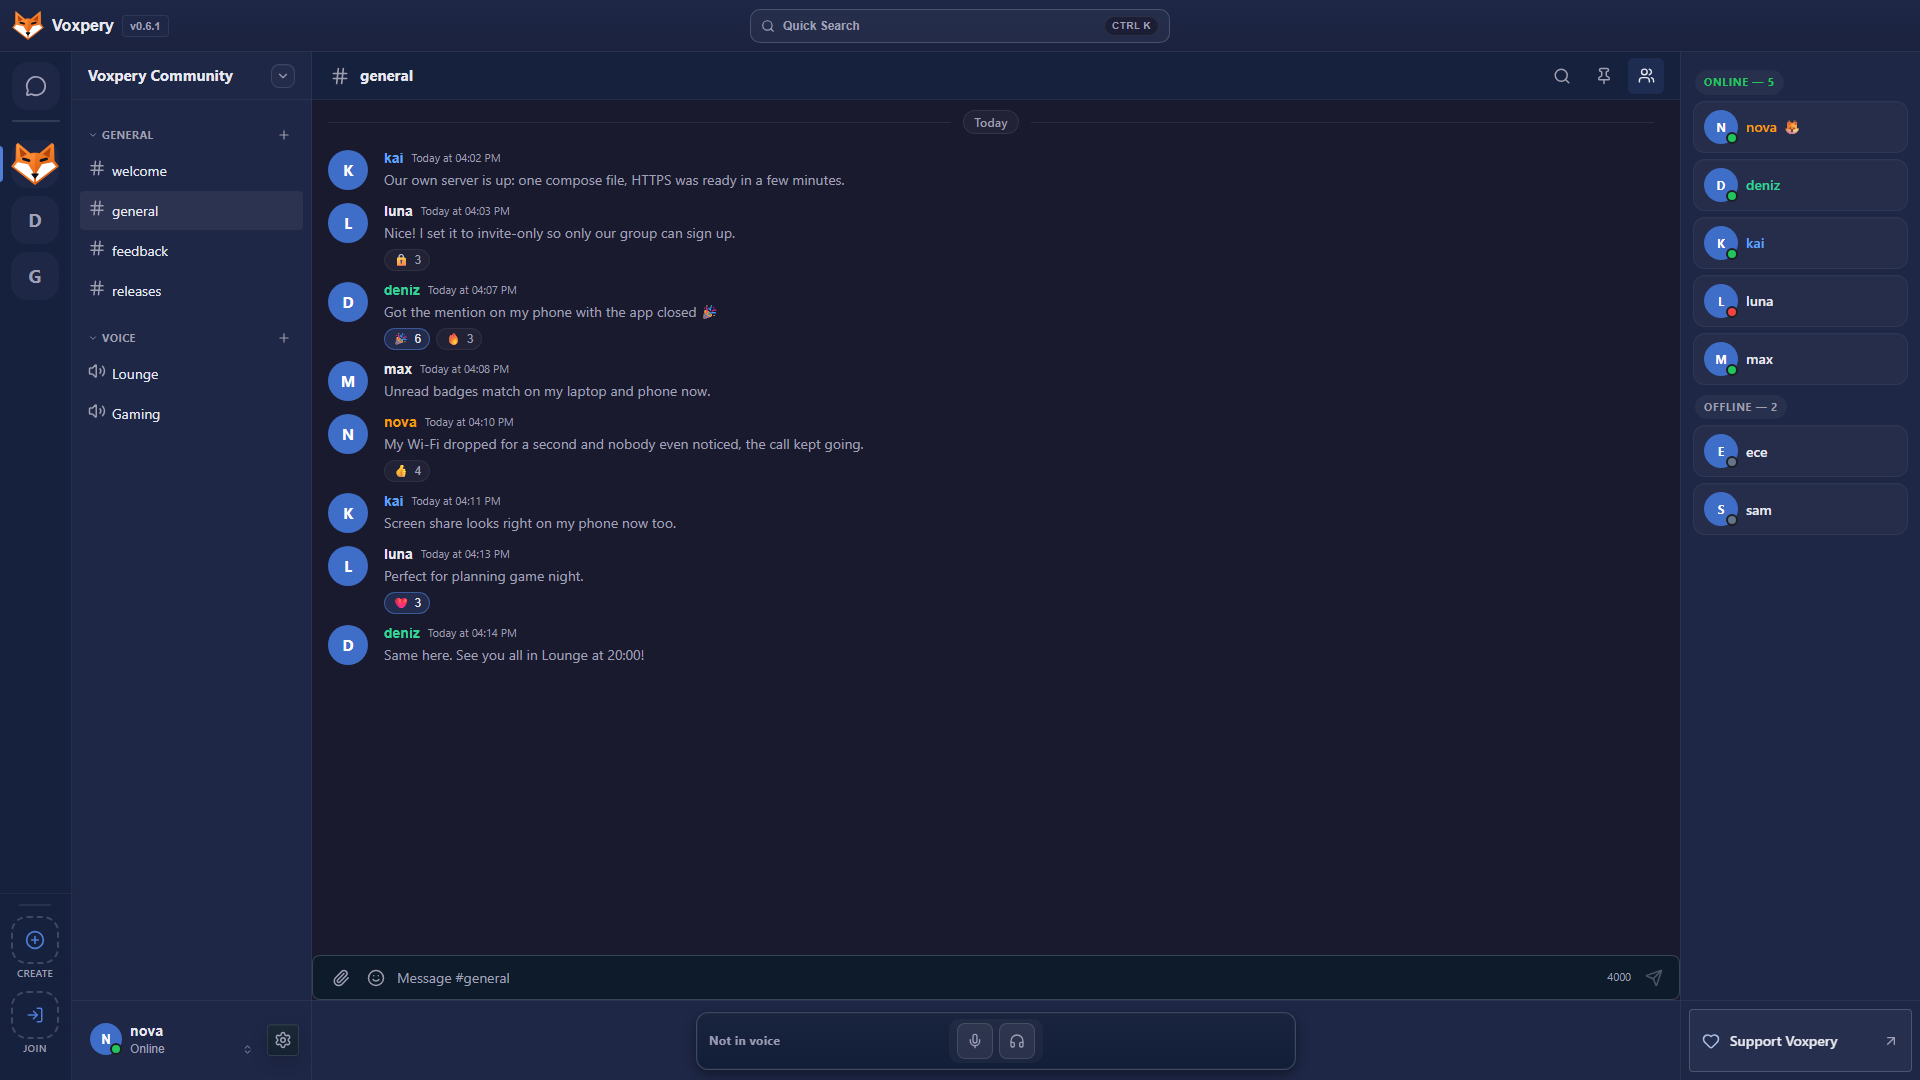
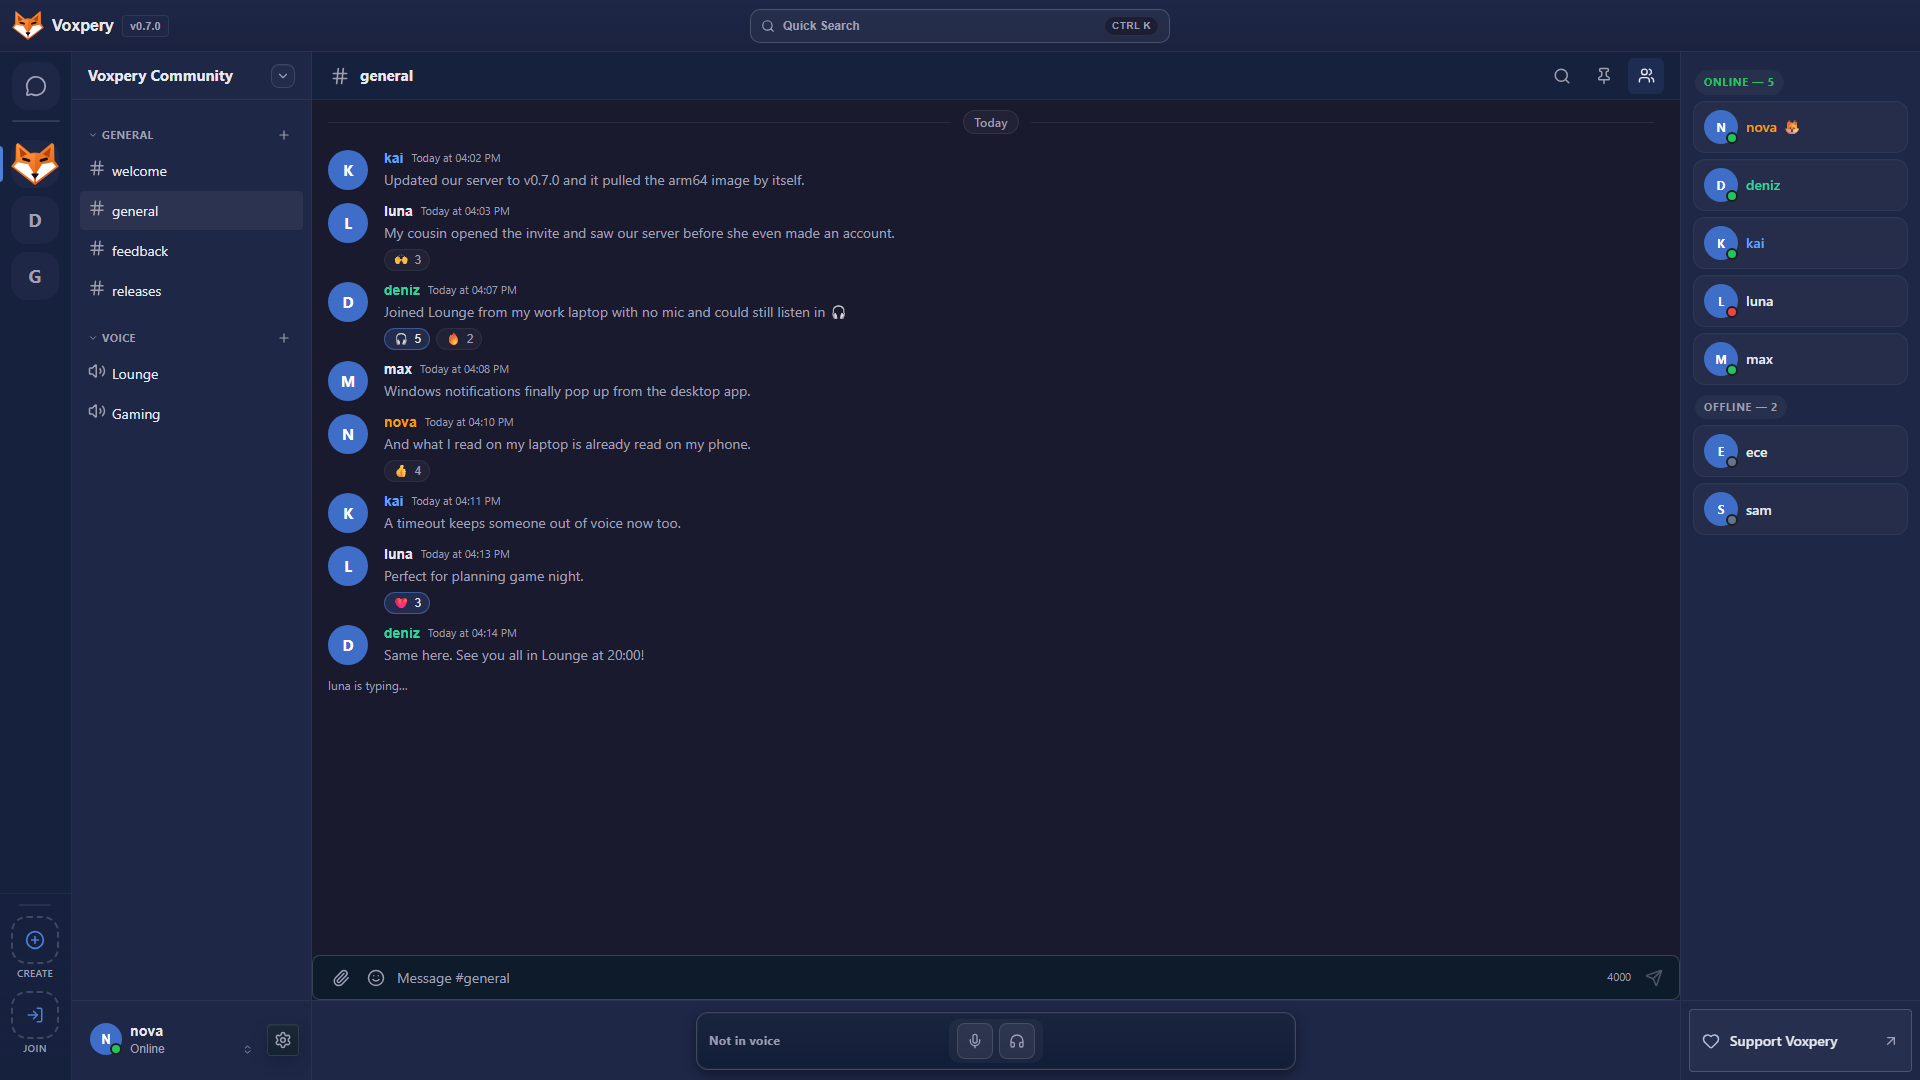
chore(release): prepare 0.7.0

diff --git a/docs/RELEASE_SMOKE_TEST_CHECKLIST.md b/docs/RELEASE_SMOKE_TEST_CHECKLIST.md
@@ -26,13 +26,35 @@ For releases that touch voice, WebRTC, LiveKit, service workers, build output, o
 
 ## Release Candidate Info
 
-### v0.6.1 preparation (not release sign-off)
+### v0.7.0 preparation (not release sign-off)
 
-Version metadata is prepared for `0.6.1`; this does not certify release readiness. Complete remaining planned improvements before recording the final candidate commit. Rebuild that exact commit in WSL with Docker and isolated test data, then test the real backend and UI at 1920x1080 plus narrow desktop/mobile regressions. Mocked browser tests are supplementary, not a substitute for this check.
+Version metadata is prepared for `0.7.0`; this does not certify release readiness. Complete remaining planned improvements before recording the final candidate commit. Rebuild that exact commit with Docker and isolated test data, then test the real backend and UI at 1920x1080 plus narrow desktop/mobile regressions. Mocked browser tests are supplementary, not a substitute for this check.
 
 Record real desktop smoke results, two-user voice/screen-share and moderation/reconnect checks, real-device mobile background-audio results, required CI/security/build results, and any platform limitations before publishing. Confirm that the glib 0.18 advisory (#242) still stays out of every shipped build (see `docs/DESKTOP_RELEASE_HARDENING.md`, Upstream issues tracked).
 
-For the final tag build, verify Docker images `voxpery/voxpery-server:v0.6.1` and `voxpery/voxpery-web:v0.6.1`, the embedded web badge/build tag, desktop version `0.6.1`, the `Voxpery_0.6.1_x86_64.flatpak` asset, the `aur-voxpery-bin` artifact (version and .deb SHA-256) (name and bundled metainfo version), and the release-generated updater `latest.json` version all agree. Scan both images (Docker Hub or `docker scout`) and record any remaining critical or high findings with a reason. Do not publish a placeholder updater manifest or tag unvalidated images as a release. Leave sign-off fields unchecked until the final candidate is tested.
+For the final tag build, verify Docker images `voxpery/voxpery-server:v0.7.0` and `voxpery/voxpery-web:v0.7.0`, the embedded web badge/build tag, desktop version `0.7.0`, the `Voxpery_0.7.0_x86_64.flatpak` asset, the `aur-voxpery-bin` artifact (version and .deb SHA-256) (name and bundled metainfo version), and the release-generated updater `latest.json` version all agree. Scan both images (Docker Hub or `docker scout`) and record any remaining critical or high findings with a reason. Do not publish a placeholder updater manifest or tag unvalidated images as a release. Leave sign-off fields unchecked until the final candidate is tested.
+
+### v0.7.0 checks
+
+Server migration `068` runs on the first start (it adds `users.disabled_at`). Take a fresh database backup first. Copy every new setting from `.env.example` into the production `.env` before the deploy.
+
+- [ ] voxpery.com `/version.json` reports `v0.7.0` after the deploy, the header badge shows `v0.7.0`, and the server logs show migration `068` applied without errors.
+- [ ] `docker buildx imagetools inspect voxpery/voxpery-server:v0.7.0` and the same for `voxpery/voxpery-web:v0.7.0` list `linux/amd64` and `linux/arm64`; the `docker_arm64_smoke` job of the tag run passed.
+- [ ] Disabling a test account with the SQL in `docs/DEPLOYMENT.md` (section 9) drops its open web and desktop sessions within 30 seconds and refuses password and Google sign-in; enabling it again restores sign-in.
+- [ ] Voice without a microphone in Chrome and Firefox (permission denied, no device, device busy) and on Windows desktop (microphone access off in Windows settings): the user joins as a listener, hears the others, shows as muted, sees no "Could not connect" message, and can talk with "Turn on microphone" once access is back.
+- [ ] Two users: a timeout given to a member in voice removes them from the call; they cannot join voice until the timeout ends or is removed, then they can.
+- [ ] Windows desktop (installed build, clean profile or with the WebView2 notification permission removed): Settings > Communication > Desktop notifications turns on without a prompt; with Voxpery in the background a DM and a mention each show a Windows notification, a click opens that conversation, Do Not Disturb and a muted server suppress them. Repeat on macOS and Linux.
+- [ ] One account on desktop, a browser and a phone: reading a channel message, a DM and a mention on one clears it on the others within a few seconds, and a tab or phone back from the background shows it read.
+- [ ] Two accounts: the typing indicator shows and clears in a channel and in a DM; your own typing does not show for you.
+- [ ] Phone, signed out: an invite link shows the server preview; "Create account" and "Sign in" each return to the invite afterwards.
+- [ ] A moderator moves a member to another voice channel: the member's view follows to the new channel with a notice; a member reading a text channel stays there.
+- [ ] Real phone (320 and 375 px wide where possible): the "Stream available" tile with a "Watching" line and the hidden camera tile stay inside their row; the "Connection lost" banner after a return from the background covers no button.
+- [ ] Five messages sent quickly on a slow connection keep their order for the sender, for another user and after a reload, in a channel and a DM.
+- [ ] Desktop and phone: switching between channels and servers whose newest messages include photos keeps the newest message in place from the first frame, also after a reload; only a photo never opened in that browser may settle once.
+- [ ] `curl -I https://voxpery.com/manifest.webmanifest` shows `Content-Type: application/manifest+json`, and `curl -I https://voxpery.com` shows a single `Strict-Transport-Security` header.
+- [ ] Windows desktop Settings > Desktop shows the "Last start" timing, and the browser console shows one `[startup]` line; record both for the slow-start investigation.
+- [ ] After uploading a 150-200 KB PNG on voxpery.com, `docker compose logs server | grep "attachment upload timing"` shows the step timings; record them for the slow-upload investigation.
+- [ ] Settings > Desktop > Server on the real desktop app: the server address field and its buttons match the settings around them in light and dark themes.
 
 ### v0.6.1 checks
 
@@ -58,7 +80,6 @@ Server migrations `065`, `066` and `067` run on the first start. Take a fresh da
 - [ ] `REGISTRATION_MODE=invite` and `closed` with a real Google account: first sign-in follows the mode; existing accounts still sign in.
 - [ ] Server Settings resets the invite link: the old link shows an invalid invite, the new one joins.
 - [ ] Two devices of one account: reading a channel on one clears its badge on the other; a mention sent while the app is closed shows a badge on the next start; a muted channel is muted on both after a reconnect.
-- [ ] Windows desktop (clean installation): Settings > Communication > Desktop notifications turns on without a prompt; with Voxpery in the background a DM and a mention each show a Windows notification named Voxpery, a click opens that conversation, Do Not Disturb and a muted server suppress them. Repeat on macOS and Linux.
 - [ ] Android Chrome (real device) with notifications enabled and Voxpery in the background: a DM and a mention each show a notification, the chat still receives the message, and tapping opens that DM or channel (also listed under PWA above).
 - [ ] With VAPID keys set: Settings > Communication offers notifications while Voxpery is closed; with every tab closed, a DM arrives on Android Chrome, desktop Chrome and Firefox and opens the DM; signing out stops them. Record the iOS Home Screen result or the limit.
 - [ ] `/compare` shows the Stoat column on desktop and mobile.

diff --git a/docs/CHANGELOG.md b/docs/CHANGELOG.md
@@ -5,6 +5,39 @@ All notable changes to this project will be documented in this file.
 The format is based on [Keep a Changelog](https://keepachangelog.com/en/1.1.0/),
 and this project adheres to [Semantic Versioning](https://semver.org/spec/v2.0.0.html).
 
+## [0.7.0] - 2026-11-28
+
+Server migration `068` runs on the first start. Self-hosted servers can now run on arm64 as well as x86-64.
+
+### Security
+- Security updates.
+
+### Added
+- Typing indicator: channels and direct messages show who is typing ("kai is typing…", "kai and luna are typing…", "Several people are typing…"). Your own typing is not shown to you.
+- Voice without a microphone: when the microphone is blocked, missing or used by another app, you join the channel as a listener instead of not joining at all. You hear everyone, show as muted, and can turn the microphone on later with "Turn on microphone" or Unmute without leaving the channel.
+- Invite links opened without an account show the server's name, icon, description and member count, with "Create account" and "Sign in" buttons that bring you back to the invite. When the instance does not accept new accounts, only "Sign in" is shown.
+- Moderators can see and remove a server mute or deafen of a member who is not in voice, from the member menu and from Server Settings > Safety > Voice Restrictions. The member menu also offers "Remove timeout" for a member who is timed out.
+- Self-hosting: Docker images for arm64 servers next to x86-64; `docker compose pull` picks the right one. The optional ClamAV scanner is x86-64 only. Requirements and measured memory use are in `docs/DEPLOYMENT.md`.
+- Self-hosting: an operator can disable an account, for example one that sends spam or harassing messages. The account is signed out everywhere within 30 seconds and cannot sign in again until it is enabled; see "Disabling an Account" in `docs/DEPLOYMENT.md`.
+- Desktop: Settings > Desktop shows how long the last start took ("Last start"), and the server logs how long each step of a file upload takes, to find out where slow starts and uploads lose time.
+
+### Changed
+- A timeout now also covers voice: a timed-out member is removed from voice right away and cannot join a voice channel until the timeout ends or is removed. The timeout dialog says so.
+- The home page describes Voxpery as your group's own voice and chat server. On phones it now shows "Self-host with Docker" and a "Self-host" menu entry; the desktop downloads stay hidden there.
+
+### Fixed
+- Phones: a voice call in the browser goes on while Voxpery is in the background. The server no longer ends the call when the app's connection drops but the call itself is still running, and the microphone keeps sending while the page is hidden. Settings > Voice & Audio shows a background log of the last call to help find out why a call still drops.
+- Desktop notifications on Windows: turning them on in Settings > Communication no longer ends in "Blocked", and direct messages and mentions show as Windows notifications; a click opens the conversation. The desktop app on macOS and Linux uses the system notifications too.
+- Read messages stay read on your other devices: a channel opened from a notification or from the tray is marked read as soon as the window gets focus, and a tab or phone that was in the background for a while picks up what you read elsewhere when you come back.
+- Messages sent quickly one after another keep the order they were written in, for everyone and after a reload, in channels and direct messages.
+- Switching channels or servers no longer makes the newest messages jump while photos load: a photo you have seen before keeps its place from the first frame, also after a reload.
+- Phones: the "Stream available" and hidden camera tiles keep their avatar and "Watch stream" button inside while someone is watching, and the "Connection lost" banner no longer covers buttons; it now sits under the top bar and pushes the page down.
+- A member moved to another voice channel by a moderator now sees the new channel instead of the old one's empty view, with a short notice; someone reading a text channel stays where they are.
+- Settings > Desktop: the self-hosted server address field and its buttons match the rest of the settings, and the sign-in code and custom server fields on the sign-in screen match the sign-in form, in light and dark themes.
+- Escape closes the pinned messages panel, a role editor error clears once you change the name or save, reply previews show plain text instead of Markdown marks, and a timeout badge disappears when the timeout ends without a reload.
+- A file that fails the security scan shows "This file did not pass the security scan" instead of the scanner's output, and the error for a non-HTTPS image address no longer reads "Image image URLs".
+- The web app manifest is served as `application/manifest+json`, so browsers read it when installing Voxpery as an app.
+
 ## [0.6.1] - 2026-11-21
 
 ### Security
